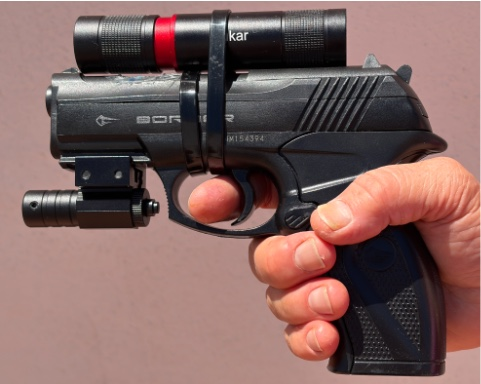
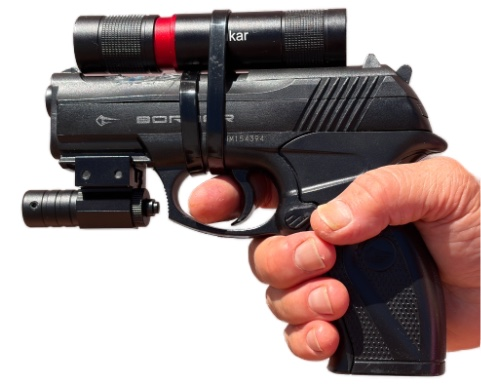
update

diff --git a/Spanish Police System/SPS.html b/Spanish Police System/SPS.html
@@ -53,21 +53,22 @@
         </blockquote>
         </p>
         <h4>Computer System</h4>
-        <img src="SPS/17e.jpg">
+        <img src="SPS/17e.png">
         <p>The computer is simply a mobile phone. We have chosen the iPhone as it provides a high level of security and
             functionality.</p>
 
         <h4>The Software Package</h4>
-        <p>The software package is the core of the system, providing the interface for officers to interact with the
-            various components and access the data they need. All features will be voice controlled, allowing officers
-            to keep their hands free and focus on their surroundings. The software will be designed to be user-friendly
-            and intuitive, with a simple and straightforward interface that allows officers to quickly access the
+        <p>
+            The software package is the core of the system, providing the interface for officers to interact with the
+            various components and access the data they need. All features will be voice controlled, allowing officersto
+            keep their hands free and focus on their surroundings. The software will be designed to be user-friendly and
+            intuitive, with a simple and straightforward interface that allows officers to quickly access the
             information they need. It will also be designed to be secure, with robust encryption and authentication
             measures to protect the data and ensure that only authorized users can access it.
         </p>
 
         <h4>The Head Up display</h4>
-        <img src="SPS/Xreal1S.jpg">
+        <img src="SPS/Xreal1S.png">
         <p>
             The head up display is a wearable device that provides officers with real-time information and alerts. It
             can display information such as the location of suspects, the status of the officer's equipment, and other
@@ -75,7 +76,7 @@
         </p>
 
         <h4>The Ground Camera</h4>
-        <img src="SPS/Tapo4K.jpg">
+        <img src="SPS/Tapo4K.png">
         <p>
             The 4K ground camera is a stationary device that can be deployed in various locations to provide
             surveillance and gather evidence. It can be equipped with features such as night vision and motion detection
@@ -93,7 +94,7 @@
         </p>
 
         <h4>The Laser Pointer</h4>
-        <img src="SPS/Laser.jpg">
+        <img src="SPS/Laser.png">
         <p>
             The laser pointer is attached to the gun to provide officers with enhanced accuracy and precision when
             firing from a concealed position. It can use laser technology to help officers aim and hit their targets
@@ -110,7 +111,7 @@
         </p>
 
         <h4>The Gun Sub-Assembly</h4>
-        <img src="SPS/GunFlashLaser.jpg">
+        <img src="SPS/GunFlashLaser.png">
         <p>
             The gun sub-assembly is a combination of the laser spotter and flashlight, providing officers with enhanced
             accuracy and visibility when firing from a concealed position. It can be easily attached to the gun and can
@@ -120,7 +121,7 @@
         <h4>The Entire System</h4>
         <img src="SPS/OfficerOutfited.jpg">
         <p>
-            Bla Bla
+            Bla Bla k
         </p>
 
         <h1>Funding</h1>
@@ -160,32 +161,35 @@
         </p>
         <p>
             I believe we have all 5 bases covered. I have already agreed to give a few other founder members a few
-            percent of the shares, and I believe we can attract the remainder of the talent need for an additional small fraction of the stock. Irorion is in a good position to attract the funding it needs to get started and grow into a successful business.
+            percent of the shares, and I believe we can attract the remainder of the talent need for an additional small fraction of the stock. Irorion is in a good position to attract the funding it needs to getstarted and grow into a successful business.
         </p>
 
         <h1>Lets do it!</h1>
         <p>
-            if you are interested in persuing this opportunity further, please contact me at:
+            if you are interested in learning more about th system, or in persuing this opportunity further, please
+            contact me at:
         </p>
+        <p>
             Name: Hugh Duffy<br>
             Email: hughdro@icloud.com<br>
             Phone: +34 684 256 571<br>
         </p>
+        <a class="back" href="../index.html">← Back to the Menu</a>
     </div>
-<a class="back" href="../index.html">← Back to the Menu</a>
 
     <!-- Stop multiple video tracts playing at once -->
-    <script>
-        const players = document.querySelectorAll("video");
+<script>
+const players = document.querySelectorAll("video");
 
-        players.forEach(p => {
-            p.addEventListener("play", () => {
-                players.forEach(other => {
-                    if (other !== p) other.pause();
-                });
-            });
+players.forEach(p => {
+    p.addEventListener("play", () => {
+        players.forEach(other => {
+            if (other !== p) other.pause();
         });
-    </script>
+    });
+});
+</script>
+
 </body>
 
 </html>
